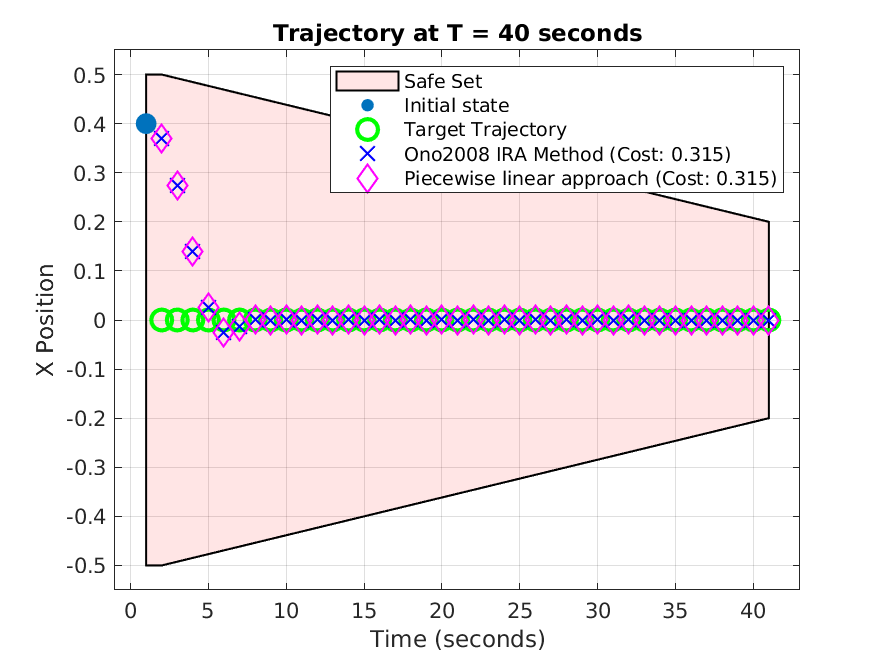
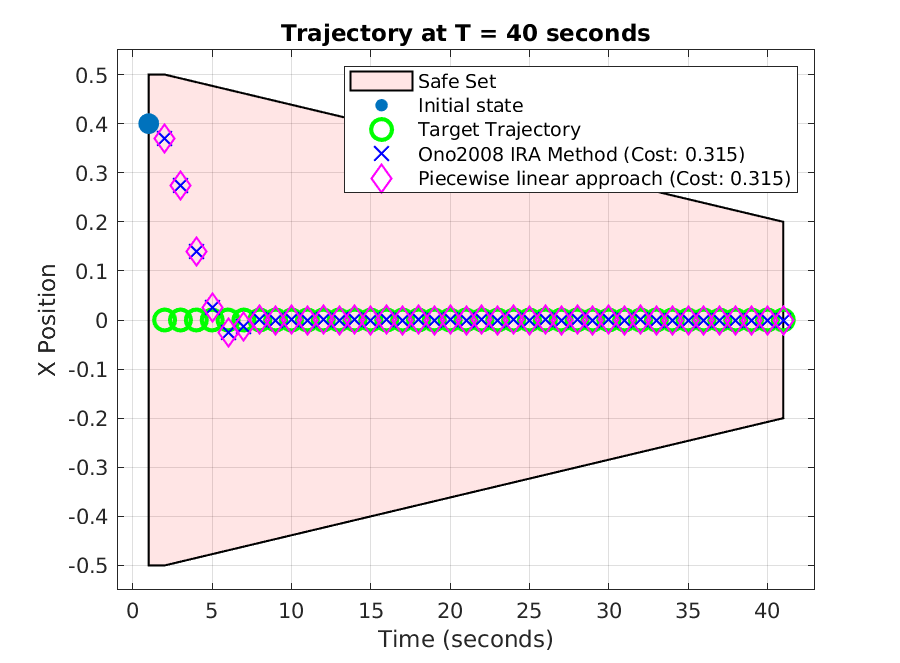
Generated new figures with a lower covariance.

diff --git a/Figure2a.m b/Figure2a.m
@@ -51,8 +51,8 @@
             delT = 0.25;
       
         % Generate the PW realization of the distribution for PWLRA: 
-            maxlierror = 1E-3;
-            lbdelta = 9E-4;
+            maxlierror = 1E-2;
+            lbdelta = 1E-3;
             [onopwl_invcdf_approx_m, onopwl_invcdf_approx_c,...
             onopwl_lb_deltai] = RolleLerpClosedForm(Delta,lbdelta,...
             maxlierror);

diff --git a/Figure2b.m b/Figure2b.m
@@ -51,8 +51,8 @@
             delT = 0.25;
       
         % Generate the PW realization of the distribution for PWLRA: 
-            maxlierror = 1E-3;
-            lbdelta = 1E-4;
+            maxlierror = 1E-2;
+            lbdelta = 1E-3;
             [onopwl_invcdf_approx_m, onopwl_invcdf_approx_c,...
             onopwl_lb_deltai] = RolleLerpClosedForm(Delta,lbdelta,...
             maxlierror);

diff --git a/Figure2c.m b/Figure2c.m
@@ -51,8 +51,8 @@
             delT = 0.25;
       
         % Generate the PW realization of the distribution for PWLRA: 
-            maxlierror = 1E-3;
-            lbdelta = 5E-4;
+            maxlierror = 1E-2;
+            lbdelta = 1E-3;
             [onopwl_invcdf_approx_m, onopwl_invcdf_approx_c,...
             onopwl_lb_deltai] = RolleLerpClosedForm(Delta,lbdelta,...
             maxlierror);

diff --git a/Figure1.m b/Figure1.m
@@ -52,7 +52,7 @@
 
         % Number of particles for BlackmorePCApproach: 
 
-            N = 100;
+            N = 5;
         
 
      %% Prepare system matrices: 
